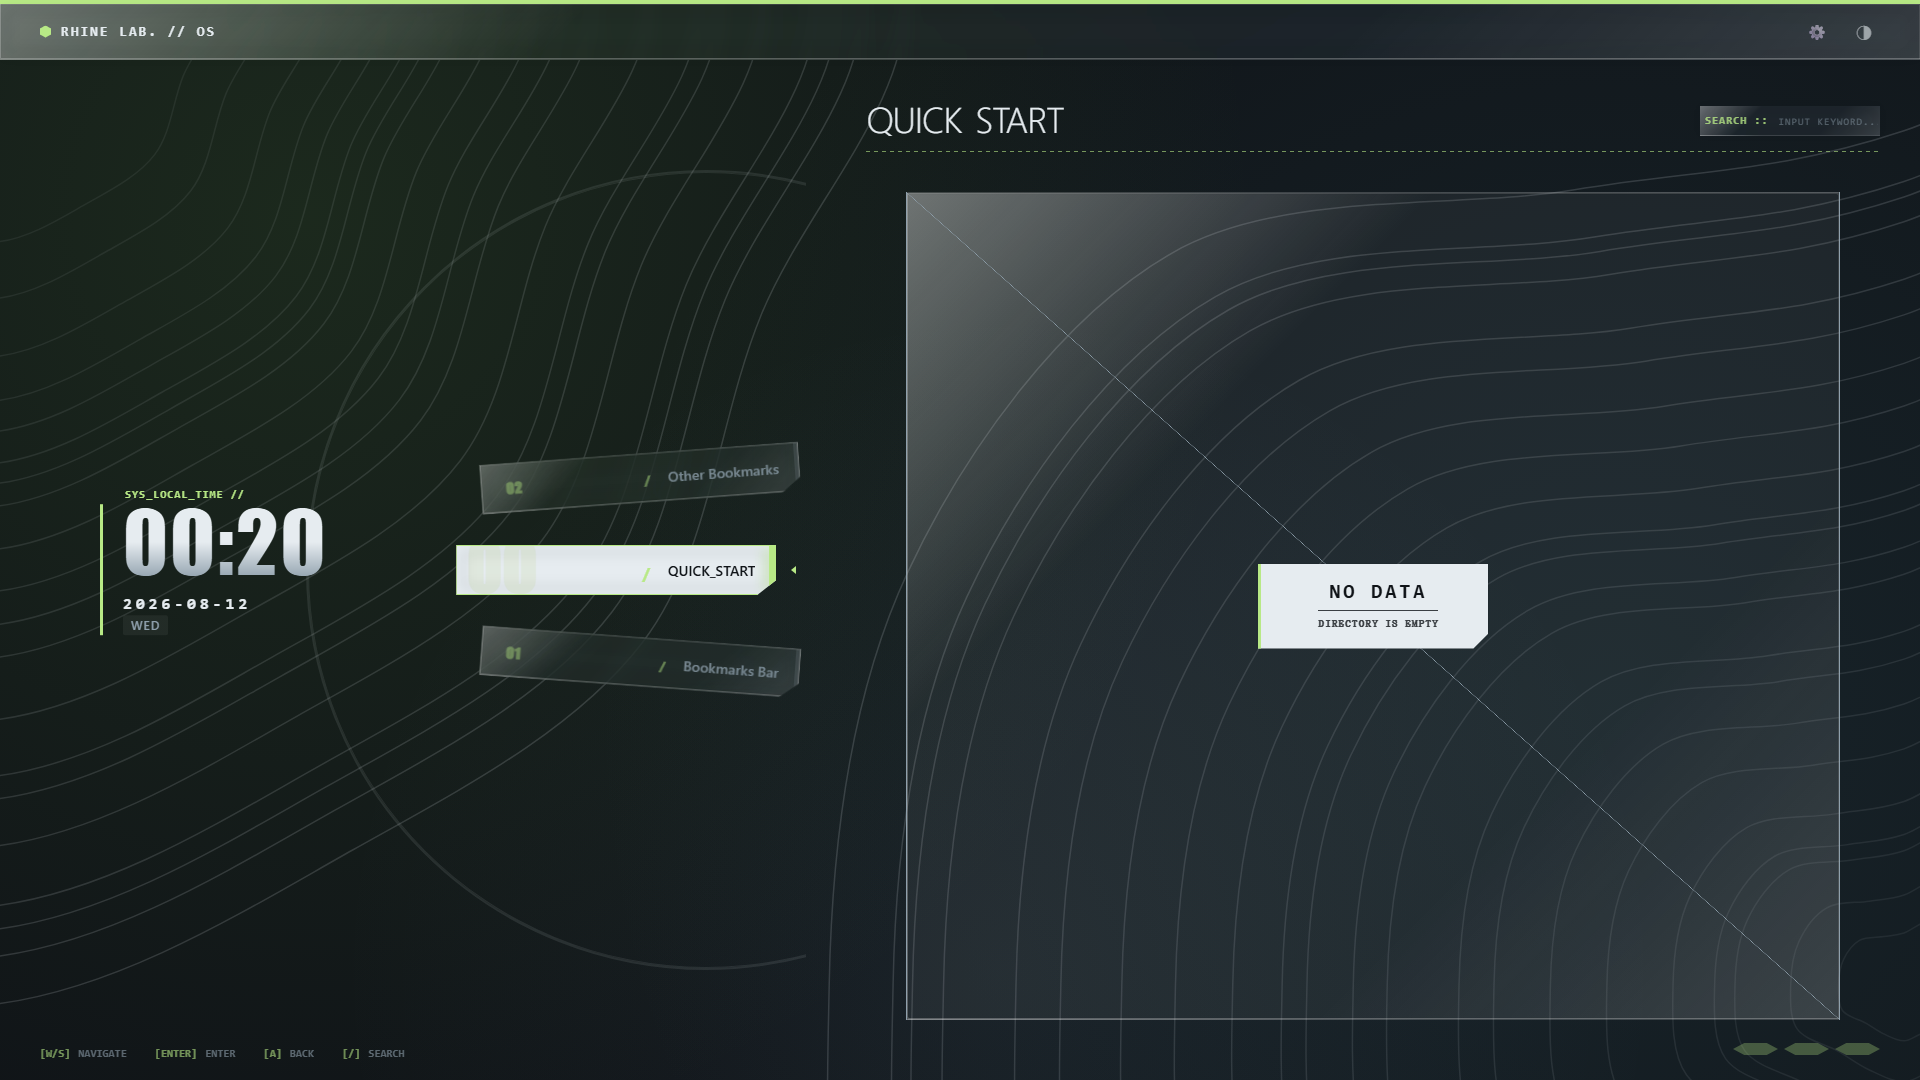
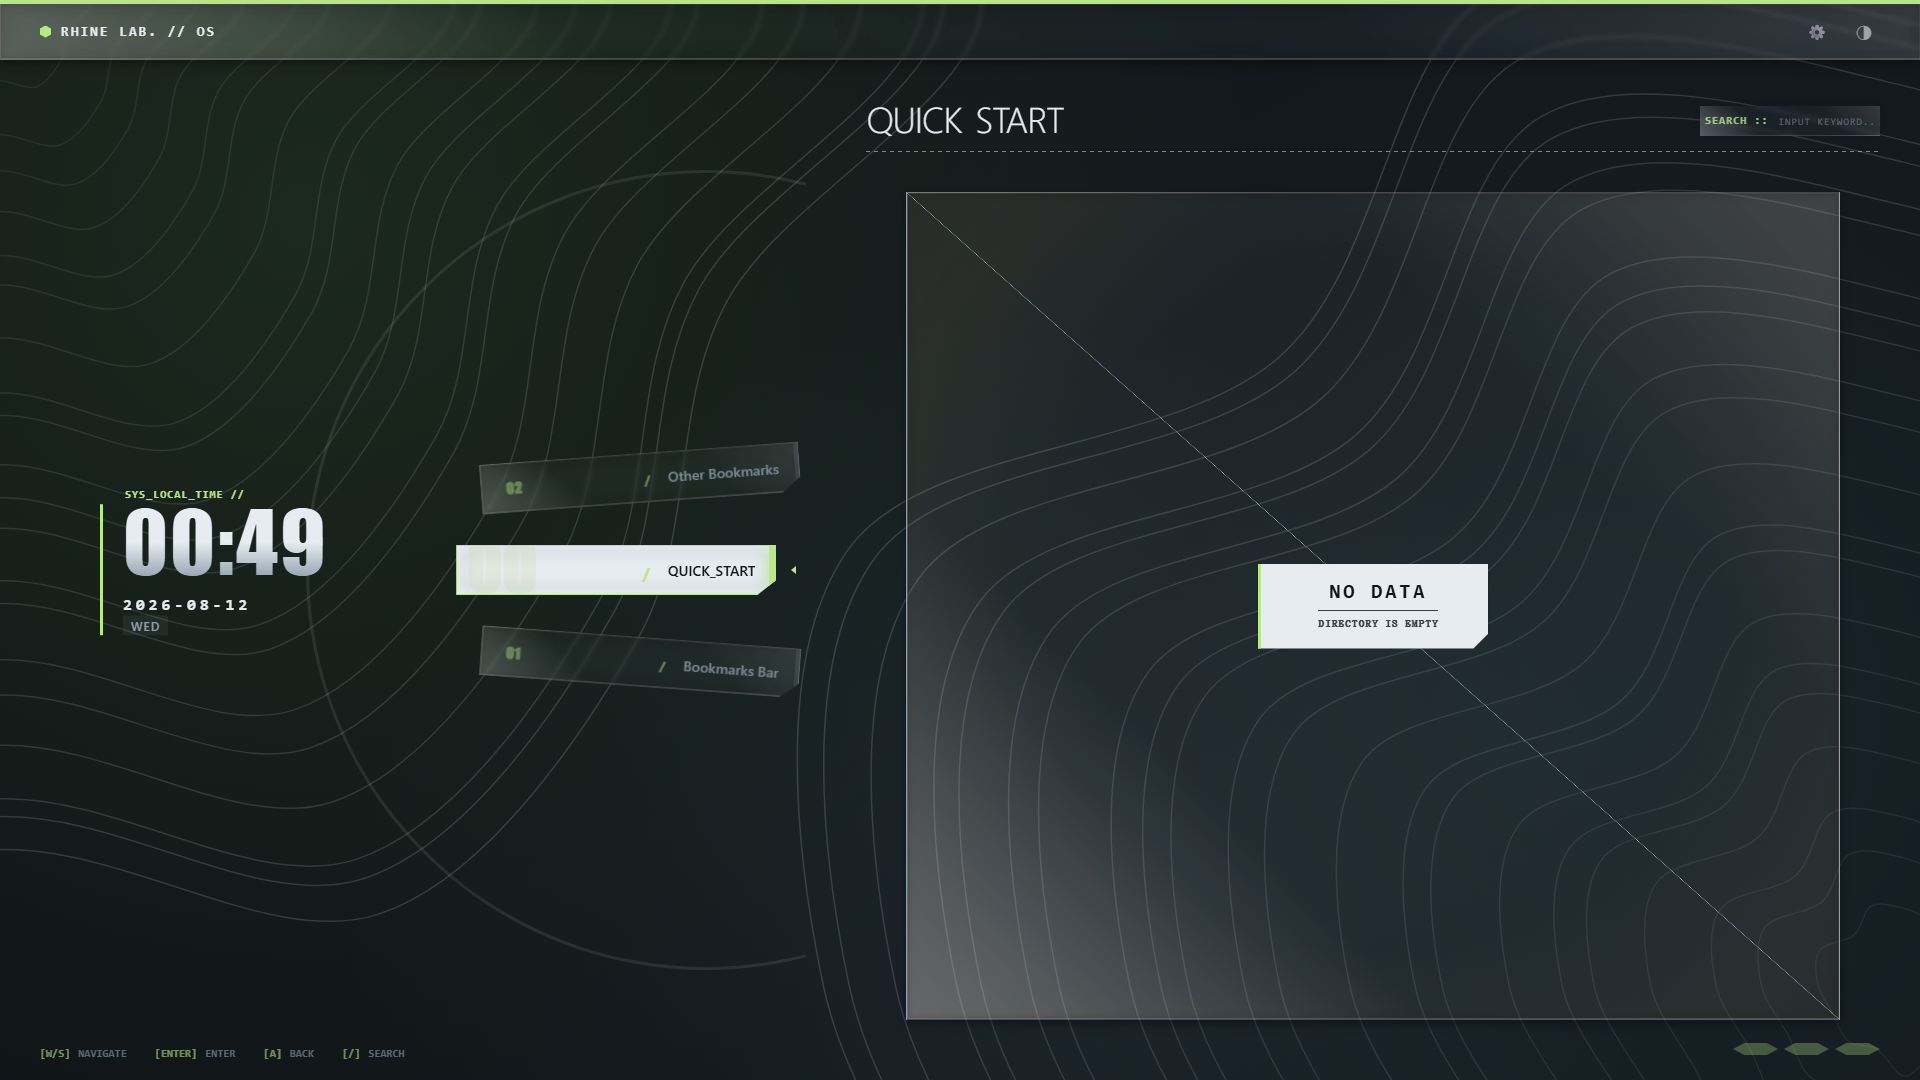
feat(ui): right-column list items follow micro-oxidized acrylic reference, drop hover scan
- glass tokens reworked per reference: rgba(255,255,255,0.04) base, blur 2px, 45deg sheen, edge oxidation radial gradient (--glass-oxidize), reference-style rim stack (corner highlights + dark inner ring + oxidation glow + outer shadow)
- .list-item / .es-backdrop use sheen + oxidize layers; removed hover/selected scan line and list-scan keyframes; selection stays green fill + offset + text color
- removed now-unused --panel-highlight; regenerate screenshots

diff --git a/LoneTrail-Tab/css/variables.css b/LoneTrail-Tab/css/variables.css
@@ -48,14 +48,14 @@
     --panel-border: rgba(206, 190, 150, 0.22);
     --panel-sheen: linear-gradient(135deg, rgba(255, 255, 255, 0.35) 0%, transparent 35%, transparent 65%, rgba(255, 255, 255, 0.15) 100%);
     --panel-rim: inset 1px -1px 0.5px -0.5px rgba(255, 255, 255, 0.35), inset -1px 1px 0.5px -0.5px rgba(255, 255, 255, 0.18), inset 0 0 1px rgba(32, 48, 60, 0.12);
-    --panel-highlight: rgba(255, 255, 255, 0.75); /* 扫描线高光 */
 
     /* 液态玻璃（右栏，双主题同配方、明暗仅强度区分） */
-    --glass-bg: rgba(255, 255, 255, 0.07);
-    --glass-blur: 6px;
+    --glass-bg: rgba(255, 255, 255, 0.04);
+    --glass-blur: 2px;
     --glass-border: rgba(32, 48, 60, 0.14);
-    --glass-sheen: linear-gradient(135deg, rgba(255, 255, 255, 0.65) 0%, transparent 30%, transparent 70%, rgba(255, 255, 255, 0.35) 100%);
-    --glass-rim: inset 1.5px -1.5px 0.5px -0.5px rgba(255, 255, 255, 0.60), inset -1.5px 1.5px 0.5px -0.5px rgba(255, 255, 255, 0.35), inset 0 0 1.5px rgba(32, 48, 60, 0.30);
+    --glass-sheen: linear-gradient(45deg, rgba(255, 255, 255, 0.55) 0%, transparent 30%, transparent 70%, rgba(255, 255, 255, 0.30) 100%);
+    --glass-oxidize: radial-gradient(circle at 50% 50%, transparent 55%, rgba(200, 170, 120, 0.06) 85%, rgba(180, 150, 100, 0.04) 100%);
+    --glass-rim: inset 2px -2px 1px -1px rgba(255, 255, 255, 0.65), inset -2px 2px 1px -1px rgba(255, 255, 255, 0.40), inset 0 0 2px rgba(32, 48, 60, 0.25), inset 0 0 10px -2px rgba(32, 48, 60, 0.28), inset 0 0 16px rgba(180, 140, 90, 0.05), 0 4px 8px rgba(16, 20, 24, 0.08);
 
     /* 模糊暗环（液态/磨砂边缘折射缝） */
     --ring-color: rgba(32, 48, 60, 0.28);
@@ -99,11 +99,12 @@
     --decoration-ring: rgba(230, 236, 240, 0.10);
 
     /* 液态玻璃（暗色） */
-    --glass-bg: rgba(255, 255, 255, 0.05);
-    --glass-blur: 8px;
+    --glass-bg: rgba(255, 255, 255, 0.04);
+    --glass-blur: 2px;
     --glass-border: rgba(255, 255, 255, 0.14);
-    --glass-sheen: linear-gradient(135deg, rgba(255, 255, 255, 0.35) 0%, transparent 30%, transparent 70%, rgba(255, 255, 255, 0.12) 100%);
-    --glass-rim: inset 1.5px -1.5px 0.5px -0.5px rgba(255, 255, 255, 0.28), inset -1.5px 1.5px 0.5px -0.5px rgba(255, 255, 255, 0.14), inset 0 0 1.5px rgba(0, 0, 0, 0.45);
+    --glass-sheen: linear-gradient(45deg, rgba(255, 255, 255, 0.28) 0%, transparent 30%, transparent 70%, rgba(255, 255, 255, 0.12) 100%);
+    --glass-oxidize: radial-gradient(circle at 50% 50%, transparent 55%, rgba(255, 190, 120, 0.05) 85%, rgba(255, 170, 100, 0.04) 100%);
+    --glass-rim: inset 2px -2px 1px -1px rgba(255, 255, 255, 0.22), inset -2px 2px 1px -1px rgba(255, 255, 255, 0.12), inset 0 0 2px rgba(0, 0, 0, 0.55), inset 0 0 10px -2px rgba(0, 0, 0, 0.45), inset 0 0 16px rgba(255, 190, 120, 0.04), 0 4px 8px rgba(0, 0, 0, 0.35);
 
     /* 暗色其余面板 = 与右栏同族的液态玻璃 */
     --panel-bg: var(--glass-bg);
@@ -111,7 +112,6 @@
     --panel-border: var(--glass-border);
     --panel-sheen: var(--glass-sheen);
     --panel-rim: var(--glass-rim);
-    --panel-highlight: rgba(255, 255, 255, 0.28);
 
     --ring-color: rgba(0, 0, 0, 0.45);
 

diff --git a/LoneTrail-Tab/css/list.css b/LoneTrail-Tab/css/list.css
@@ -9,7 +9,7 @@
     height: 60px; margin-bottom: 10px; padding: 0 25px;
     
     background-color: var(--glass-bg);
-    background-image: var(--glass-sheen);
+    background-image: var(--glass-sheen), var(--glass-oxidize);
     border: 1px solid var(--glass-border); 
     border-radius: 6px;
     color: var(--text-sub);
@@ -19,7 +19,7 @@
     font-family: var(--font-ui);
 
     backdrop-filter: blur(var(--glass-blur)) saturate(1.2); -webkit-backdrop-filter: blur(var(--glass-blur)) saturate(1.2);
-    box-shadow: var(--glass-rim), 0 2px 8px var(--shadow-soft);
+    box-shadow: var(--glass-rim);
     
     cursor: pointer; overflow: hidden;
     
@@ -38,30 +38,6 @@
     content: ''; position: absolute; top: 0; left: 0; bottom: 0; width: 0%;
     background-color: var(--accent); z-index: 1; 
     transition: width 0.3s cubic-bezier(0.22, 1, 0.36, 1);
-}
-
-/* 扫描线：hover 与选中时一次性横扫，克制频率 */
-.list-item::after {
-    content: '';
-    position: absolute;
-    top: 0;
-    left: -60%;
-    bottom: 0;
-    width: 45%;
-    z-index: 3;
-    background: linear-gradient(105deg, transparent, var(--panel-highlight) 50%, transparent);
-    transform: skewX(-15deg);
-    opacity: 0;
-    pointer-events: none;
-}
-.list-item:hover::after,
-.list-item.selected::after {
-    opacity: 1;
-    animation: list-scan 0.7s cubic-bezier(0.22, 1, 0.36, 1) forwards;
-}
-@keyframes list-scan {
-    from { left: -60%; }
-    to { left: 130%; }
 }
 
 .list-item .title, .list-item .url, .list-item .list-favicon, .list-item .folder-indicator {
@@ -124,7 +100,7 @@
     z-index: 0;
     
     background-color: var(--glass-bg);
-    background-image: var(--glass-sheen);
+    background-image: var(--glass-sheen), var(--glass-oxidize);
     backdrop-filter: blur(var(--glass-blur)) saturate(1.2);
     -webkit-backdrop-filter: blur(var(--glass-blur)) saturate(1.2);
     box-shadow: var(--glass-rim);
